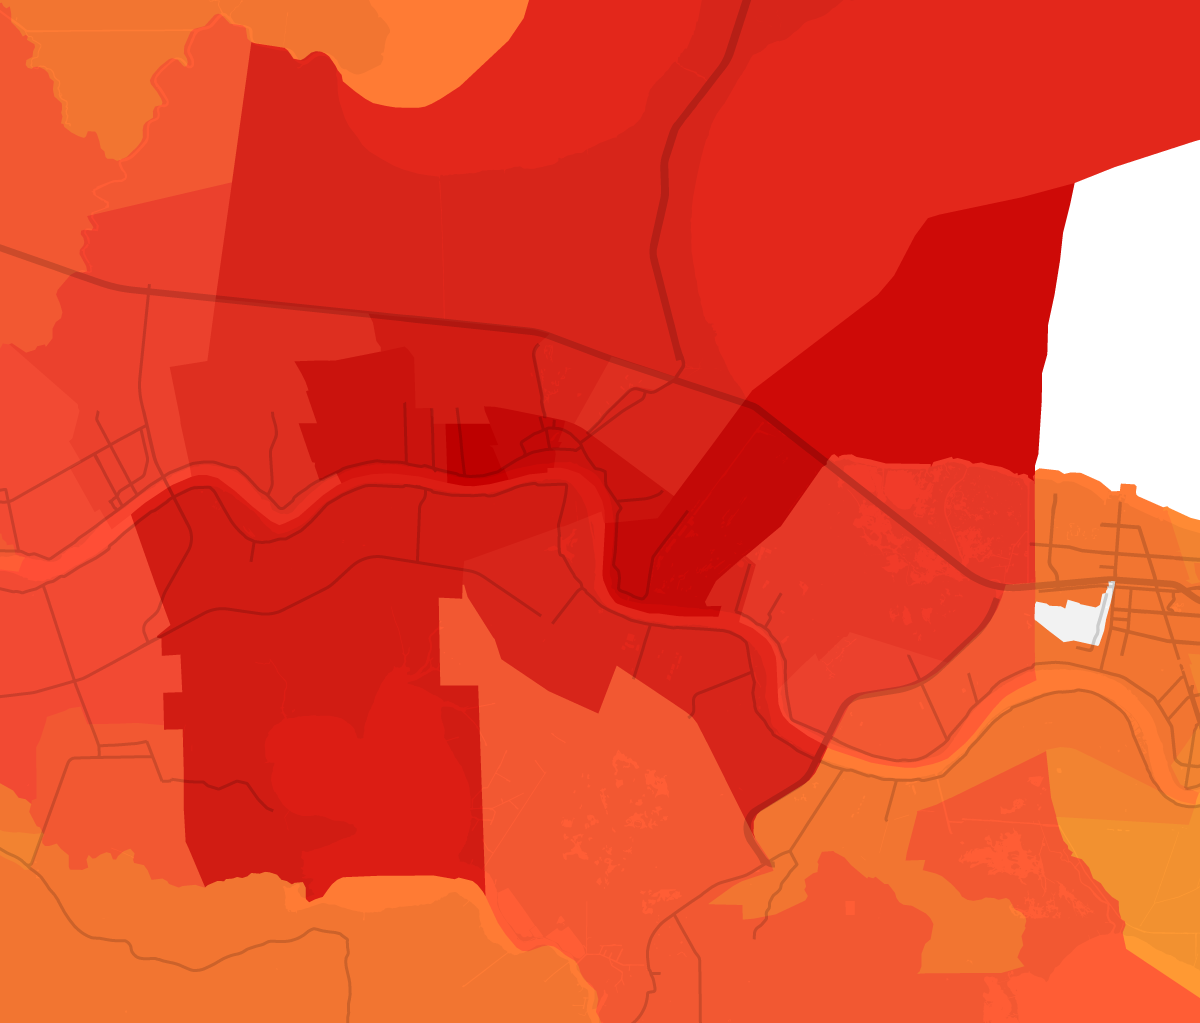
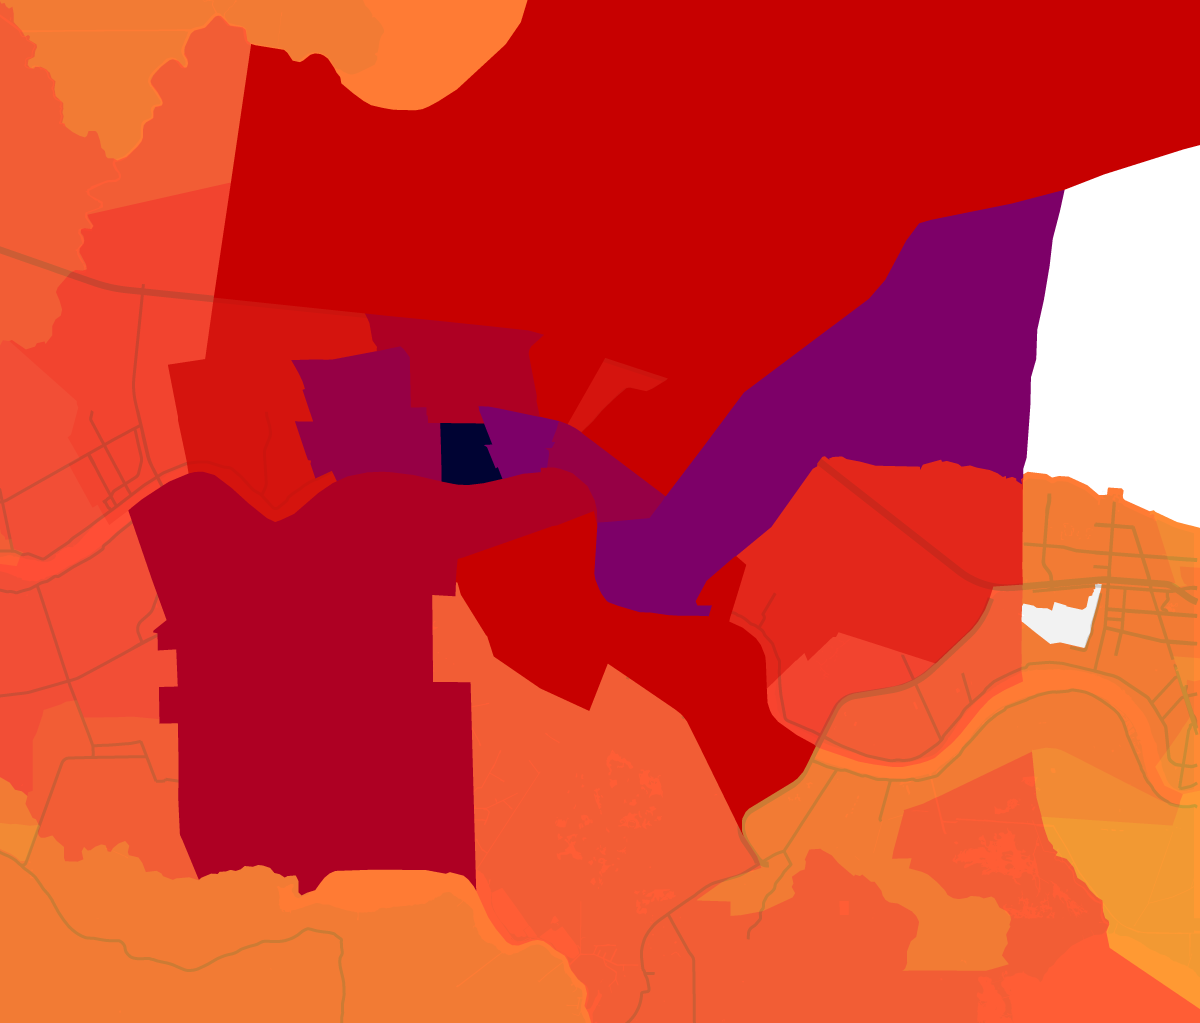
change ramp for zoomed in image

diff --git a/src/sass/partials/_visuals.scss b/src/sass/partials/_visuals.scss
@@ -184,7 +184,7 @@
     }
 
     .uit-visual__key--1 & {
-        background-image: linear-gradient(to right, #f9eae1, #ff9933 20%, $c-light-red 55%, $c-red);
+        background-image: linear-gradient(to right, #f9eae1, #ff9933 10%, $c-light-red 25%, $c-red 45%, $c-dark-purple 70%, #000333);
     }
 }
 

diff --git a/src/js/modules/map.js b/src/js/modules/map.js
@@ -61,7 +61,7 @@ let states = [
 let places = [
     {
         text: 'Reserve',
-        coords: [-90.554791, 30.061910],
+        coords: [-90.523362, 30.056484],
         layer: 2
     },
     {
